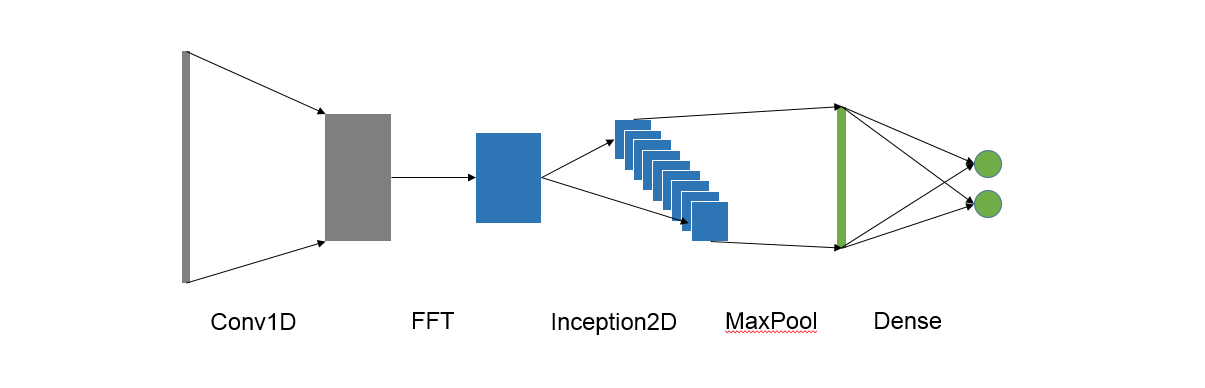
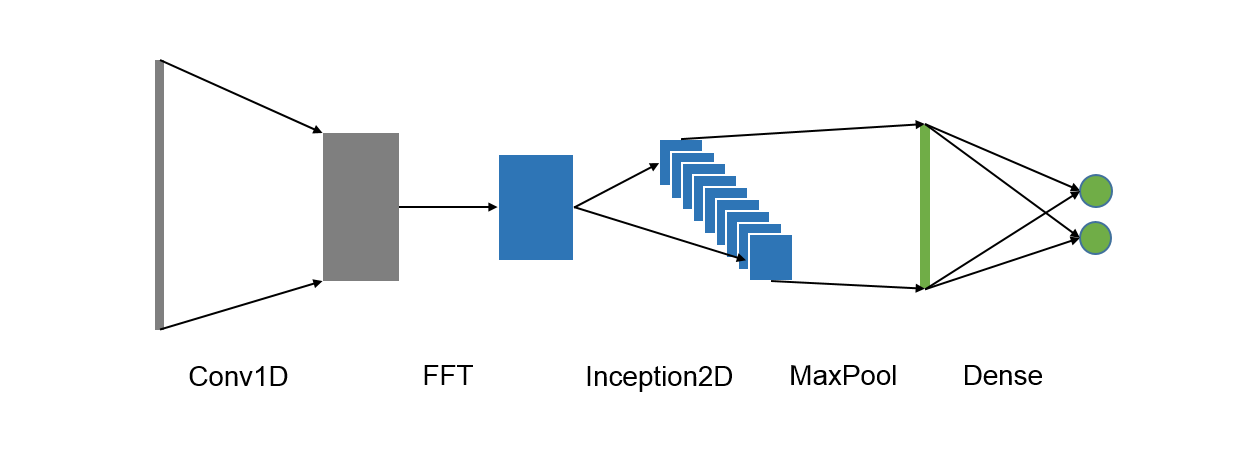
Added pictures to models description; restructured intro section

diff --git a/docs/conf.py b/docs/conf.py
@@ -34,6 +34,8 @@ extensions = [
     'sphinx.ext.napoleon',
 ]
 
+napoleon_use_rtype = False
+
 templates_path = ['_templates']
 
 source_suffix = ['.rst', '.md']

diff --git a/docs/intro/introduction.rst b/docs/intro/introduction.rst
@@ -1,0 +1,81 @@
+============
+Introduction
+============
+
+This section describes briefly capabilities of the CardIO framework.
+
+
+:doc:`Batch <./batch>`
+--------
+The main class the CardIO is EcgBatch. It contains the I/O and preprocessing :func:`actions <dataset.action>` that allow to load and prepare data for the modeling.
+
+.. code-block :: python
+
+  from cardio import EcgBatch
+  from dataset import FilesIndex, Dataset
+  ecg_index = FilesIndex(path='path/to/ecg/*', no_ext=True) # set up the index
+  dicomset = Dataset(index=ecg_index, batch_class=EcgBatch) # init the dataset of dicom files
+
+:doc:`Models <./models>`
+------
+This module contain model suited to classify whether ECG signal is normal or pathological, to annotate segments of the signal (e.g., P-wave).
+
+.. code-block:: python
+
+  dirichlet_train_ppl = (
+  ds.Pipeline()
+    .init_model("dynamic", DirichletModel, name="dirichlet", config=model_config)
+    .init_variable("loss_history", init=list)
+    .load(components=["signal", "meta"], fmt="wfdb")
+    .load(components="target", fmt="csv", src=LABELS_PATH)
+    .drop_labels(["~"])
+    .replace_labels({"N": "NO", "O": "NO"})
+    .flip_signals()
+    .random_resample_signals("normal", loc=300, scale=10)
+    .random_split_signals(2048, {"A": 9, "NO": 3})
+    .binarize_labels()
+    .train_model("dirichlet", make_data=concatenate_ecg_batch,
+                 fetches="loss", save_to=V("loss_history"), mode="a")
+    .run(batch_size=BATCH_SIZE, shuffle=True, drop_last=True, n_epochs=N_EPOCH, lazy=True)
+  )
+
+:doc:`Pipelines <./pipelines>`
+---------
+Pipelines were designed to ease usage of exhisting models make final code simpler. 
+
+.. code-block:: python
+
+  from cardio.pipelines import hmm_predict_pipeline
+  res = (data >> hmm_predict_pipeline(model_path)).run()
+
+Under the hood this function contains a list of actions:
+
+.. code-block:: python
+
+  template_hmm_predict = (
+  ds.Pipeline()
+    .init_model("static", HMModel, "HMM", config=config_predict)
+ 	.init_variable("batch", init_on_each_run=list)
+ 	.load(fmt="wfdb", components=["signal", "annotation", "meta"], ann_ext="pu1")
+ 	.wavelet_transform_signal(cwt_scales=[4,8,16], cwt_wavelet="mexh")
+ 	.predict_model("HMM", make_data=prepare_batch, save_to=ds.B("_temp"), mode='w')
+	.write_to_annotation("hmm_annotation", "_temp")
+ 	.calc_ecg_parameters()
+    .update_variable("batch", ds.F(get_batch), mode='e')
+    .run(batch_size=batch_size, shuffle=False, drop_last=False, n_epochs=1, lazy=True)
+  )
+  res = (data >> template_hmm_predict).run()  
+
+Tutorials
+---------
+
+There are three tutorials:
+
+* `CardIO <https://github.com/analysiscenter/cardio/blob/master/tutorials/I.CardIO.ipynb>`_
+In this tutorail we briefly introduce some instances of `Dataset <https://github.com/analysiscenter/dataset>`_ and show capabilities of the CardIO's EcgBatch class.
+
+* `Pipelines <https://github.com/analysiscenter/cardio/blob/master/tutorials/II.Pipelines.ipynb>`_
+In this tutorial we show how to create pipelines, use them for preprocessing and add your custom action to the EcgBatch with ease.
+
+* `Models <https://github.com/analysiscenter/cardio/blob/master/tutorials/III.Models.ipynb>`_
+This tutorial shows how to embed models in pipelines to perform training and prediction.

diff --git a/docs/intro/intro.rst b/docs/intro/intro.rst
@@ -1,9 +1,3 @@
-============
-Introduction
-============
-
-This section describes briefly capabilities of the CardIO framework.
-
 Contents
 ========
 
@@ -11,73 +5,7 @@ Contents
    :maxdepth: 2
    :titlesonly:
 
+   introduction
    batch
    models
    pipelines
-   tutorials
-
-
-EcgBatch
---------
-The main class the CardIO is EcgBatch. It contains the I/O and preprocessing :func:`actions <dataset.action>` that allow to load and prepare data for the modeling.
-
-.. code-block :: python
-
-  from cardio import EcgBatch
-  from dataset import FilesIndex, Dataset
-  ecg_index = FilesIndex(path='path/to/ecg/*', no_ext=True) # set up the index
-  dicomset = Dataset(index=ecg_index, batch_class=EcgBatch) # init the dataset of dicom files
-
-Models
-------
-This module contain model suited to classify whether ECG signal is normal or pathological, to annotate segments of the signal (e.g., P-wave).
-
-.. code-block:: python
-
-  dirichlet_train_ppl = (
-  ds.Pipeline()
-    .init_model("dynamic", DirichletModel, name="dirichlet", config=model_config)
-    .init_variable("loss_history", init=list)
-    .load(components=["signal", "meta"], fmt="wfdb")
-    .load(components="target", fmt="csv", src=LABELS_PATH)
-    .drop_labels(["~"])
-    .replace_labels({"N": "NO", "O": "NO"})
-    .flip_signals()
-    .random_resample_signals("normal", loc=300, scale=10)
-    .random_split_signals(2048, {"A": 9, "NO": 3})
-    .binarize_labels()
-    .train_model("dirichlet", make_data=concatenate_ecg_batch,
-                 fetches="loss", save_to=V("loss_history"), mode="a")
-    .run(batch_size=BATCH_SIZE, shuffle=True, drop_last=True, n_epochs=N_EPOCH, lazy=True)
-  )
-
-Pipelines
----------
-Pipelines were designed to ease usage of exhisting models make final code simpler. 
-
-.. code-block:: python
-
-  from cardio.pipelines import hmm_predict_pipeline
-  res = (data >> hmm_predict_pipeline(model_path)).run()
-
-Under the hood this function contains a list of actions:
-
-.. code-block:: python
-
-  template_hmm_predict = (
-  ds.Pipeline()
-    .init_model("static", HMModel, "HMM", config=config_predict)
- 	.init_variable("batch", init_on_each_run=list)
- 	.load(fmt="wfdb", components=["signal", "annotation", "meta"], ann_ext="pu1")
- 	.wavelet_transform_signal(cwt_scales=[4,8,16], cwt_wavelet="mexh")
- 	.predict_model("HMM", make_data=prepare_batch, save_to=ds.B("_temp"), mode='w')
-	.write_to_annotation("hmm_annotation", "_temp")
- 	.calc_ecg_parameters()
-    .update_variable("batch", ds.F(get_batch), mode='e')
-    .run(batch_size=batch_size, shuffle=False, drop_last=False, n_epochs=1, lazy=True)
-  )
-  res = (data >> template_hmm_predict).run()  
-
-Tutorials
----------
-In this section you can find links to the tutorails on how to use CardIO and its' modules.

diff --git a/docs/intro/pipelines.rst b/docs/intro/pipelines.rst
@@ -2,22 +2,20 @@
 Pipelines
 =========
 
-This module contains pipelines that we used for model training and
-predicting. Ypu can use them as-is to train similar models or 
-adjust them in order to find better solution.
+This module contains pipelines that we used to train models and make predictions. You can use them as-is to train similar models or 
+adjust them in order to get better perfomance.
 
 How to use
 ----------
-
-There are 3 simple steps in using pipelines. First, we import desired pipeline, e.g. dirichlet_train
+Working with pipelines consists of 3 simple steps. First, we import desired pipeline, e.g. dirichlet_train_pipeline:
 ::
-  from cardio.pipelines import dirichlet_train
+  from cardio.pipelines import dirichlet_train_pipeline
 
-Second, we specify its parameters, e.g. path to data:
+Second, we specify its parameters, e.g. path to file with labels:
 ::
-  pipeline = dirichlet_train('path')
+  pipeline = dirichlet_train_pipeline(labels_path='some_path')
 
-Third, we pass dataset to pipeline and run caclulation:
+Third, we pass dataset to the pipeline and run caclulation:
 ::
   (dataset >> pipeline).run(batch_size=100, n_epochs=10)
 
@@ -25,11 +23,13 @@ Result is typically a trained model or some values stored in pipeline variable (
 
 Available pipelines
 -------------------
-
 At this moment the module contains following pipelines:
+* dirichlet_train_pipeline
+* dirichlet_predict_pipeline
+* hmm_preprocessing_pipeline
+* hmm_train_pipeline
+* hmm_predict_pipeline
 
-* dirichlet_train
-* dirichlet_prediction
-* hmm_train
-* hmm_predicition
-* show_ecg_segments
+API
+===
+See :doc:`Pipelines API <../api/cardio.pipelines>`

diff --git a/docs/intro/models.rst b/docs/intro/models.rst
@@ -12,7 +12,9 @@ We have a number of built-in :doc:`models <../api/cardio.models>` for ECG classi
 DirichletModel
 --------------
 
-The model predicts Dirichlet distribution parameters from which class probabilities are sampled. 
+This model is used to predcit probability of atrial fibrillation. It predicts Dirichlet distribution parameters from which class probabilities are sampled. 
+
+.. image:: dirichlet_model.png
 
 How to use
 ~~~~~~~~~~
@@ -43,6 +45,8 @@ Hidden Markov Model is used to annotate ECG signal. This allows to calculate num
 important parameters, important for diagnosing.
 This model allows to detect P and T waves; Q, R, S peaks; PQ and ST segments. The model 
 has a total of 19 states, the mapping of them to the segments of ECG signal can  be found in ``ecg_batch_tools`` module.
+
+..image:: hmmodel.png
 
 How to use
 ~~~~~~~~~~
@@ -98,7 +102,7 @@ We applied this model to arrhythmia prediction from single-lead ECG. Train pipel
   )
 
 
-Below you can find a guide how to build your own model with Keras framework. More details you can find in our :doc:`tutorials <./tutorials>`
+Below you can find a guide how to build your own model with Keras framework. More details you can find in our :doc:`tutorials <./inroduction#tutorials>`
 
 How to build a model with Keras
 -------------------------------
@@ -148,3 +152,7 @@ named 'target' (this will be our output tensor).
                                  save_to=V("loss_history"), mode="a"))
 
 Fron now on ``train_pipeline`` contains compiled model and is ready for training.
+
+API
+===
+See :doc:`Models API <../api/cardio.models>`

diff --git a/docs/index.rst b/docs/index.rst
@@ -1,7 +1,7 @@
 ===================================
 Welcome to CardIO's documentation!
 ===================================
-`CardIO` is a library designed to build end-to-end machine learning models for deep research of electrocardiograms and provides ready-to-use methods for heart diseases detection
+`CardIO` is a library designed to build end-to-end machine learning models for deep research of electrocardiograms.
 
 Main features:
 

diff --git a/docs/intro/batch.rst b/docs/intro/batch.rst
@@ -26,8 +26,6 @@ Actions of EcgBatch allows e.g.:
 * allocate PQ, QT, QRS segments
 * dump results.
 
-More detailed API see :doc:`here <../api/cardio>`.
-
 
 ecg_batch_tools
 ---------------
@@ -45,3 +43,7 @@ utils
 -----
 
 Miscellaneous ECG Batch utils.
+
+API
+===
+See :doc:`Batch API <../api/cardio.batch>`
